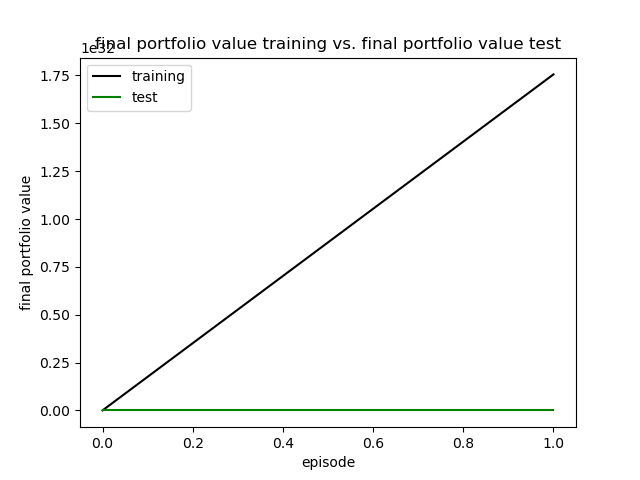
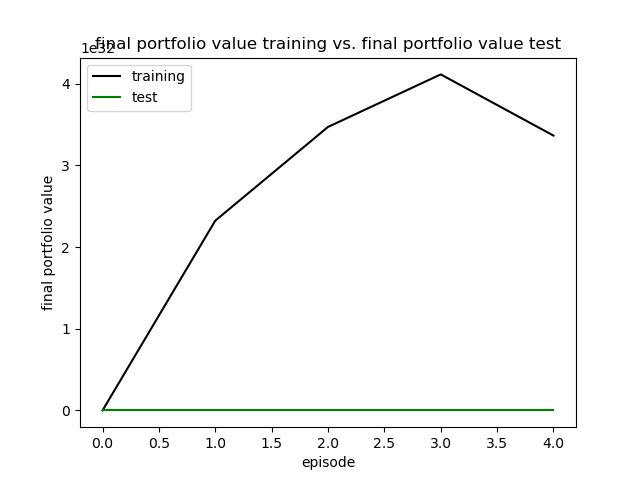
Best results, 5 epochs, finalized

diff --git a/traders/deep_q_learning_trader.py b/traders/deep_q_learning_trader.py
@@ -212,10 +212,10 @@ def get_state(self, stock_market_data: StockMarketData) -> np.ndarray:
 
 
 def train_neural_net(self):
-    if len(self.memory) > self.min_size_of_memory_before_training + self.batch_size:
-        part_mem = random.sample(self.memory, self.batch_size)
+    if len(self.memory) > self.min_size_of_memory_before_training:
+        samples = random.sample(self.memory, self.batch_size)
 
-        for old_state, last_action, reward, current_state in part_mem:
+        for old_state, last_action, reward, current_state in samples:
             new_q = reward + self.discount * np.amax(self.model.predict(current_state)[0])
             q_vector = self.model.predict(old_state)
             q_vector[0][last_action] = new_q
@@ -223,7 +223,7 @@ def train_neural_net(self):
 
 
 # This method retrains the traders from scratch using training data from TRAINING and test data from TESTING
-EPISODES = 2
+EPISODES = 5
 if __name__ == "__main__":
     # Create the training data and testing data
     # Hint: You can crop the training data with training_data.deepcopy_first_n_items(n)
